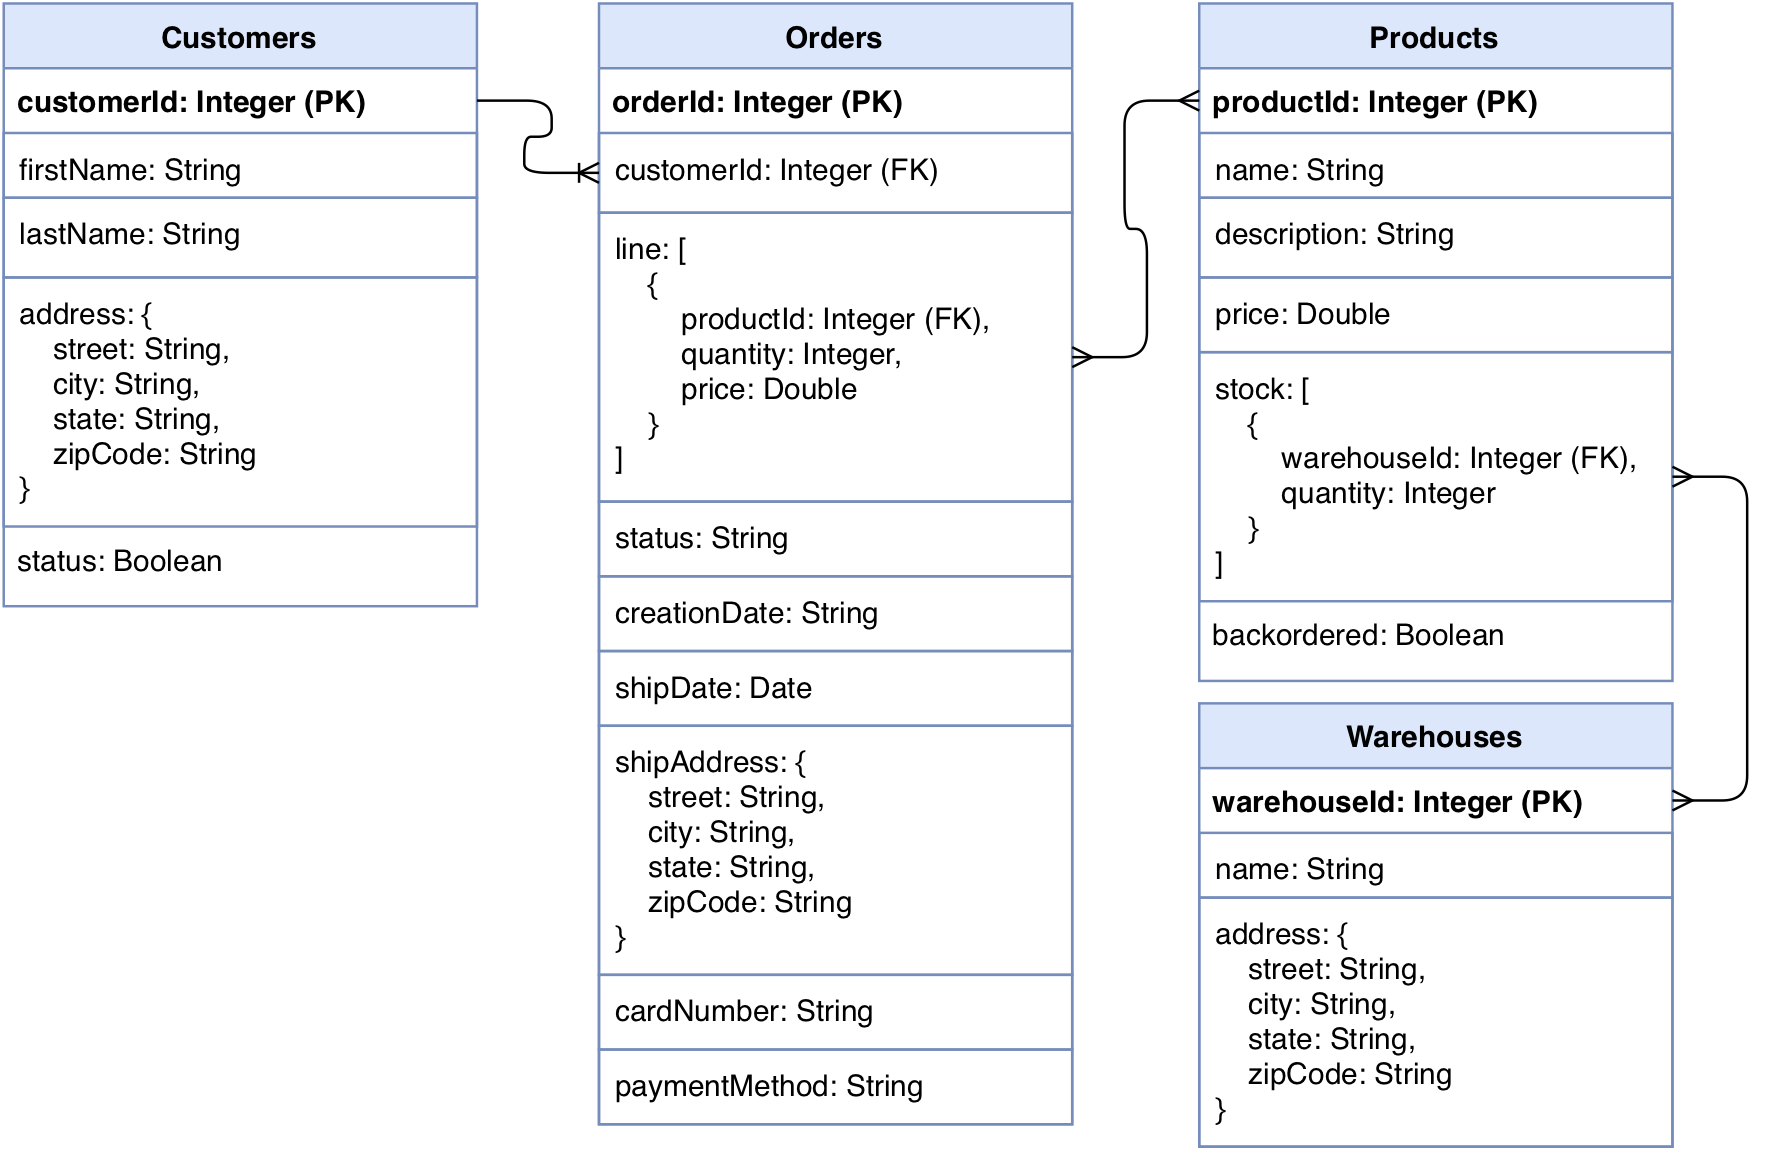
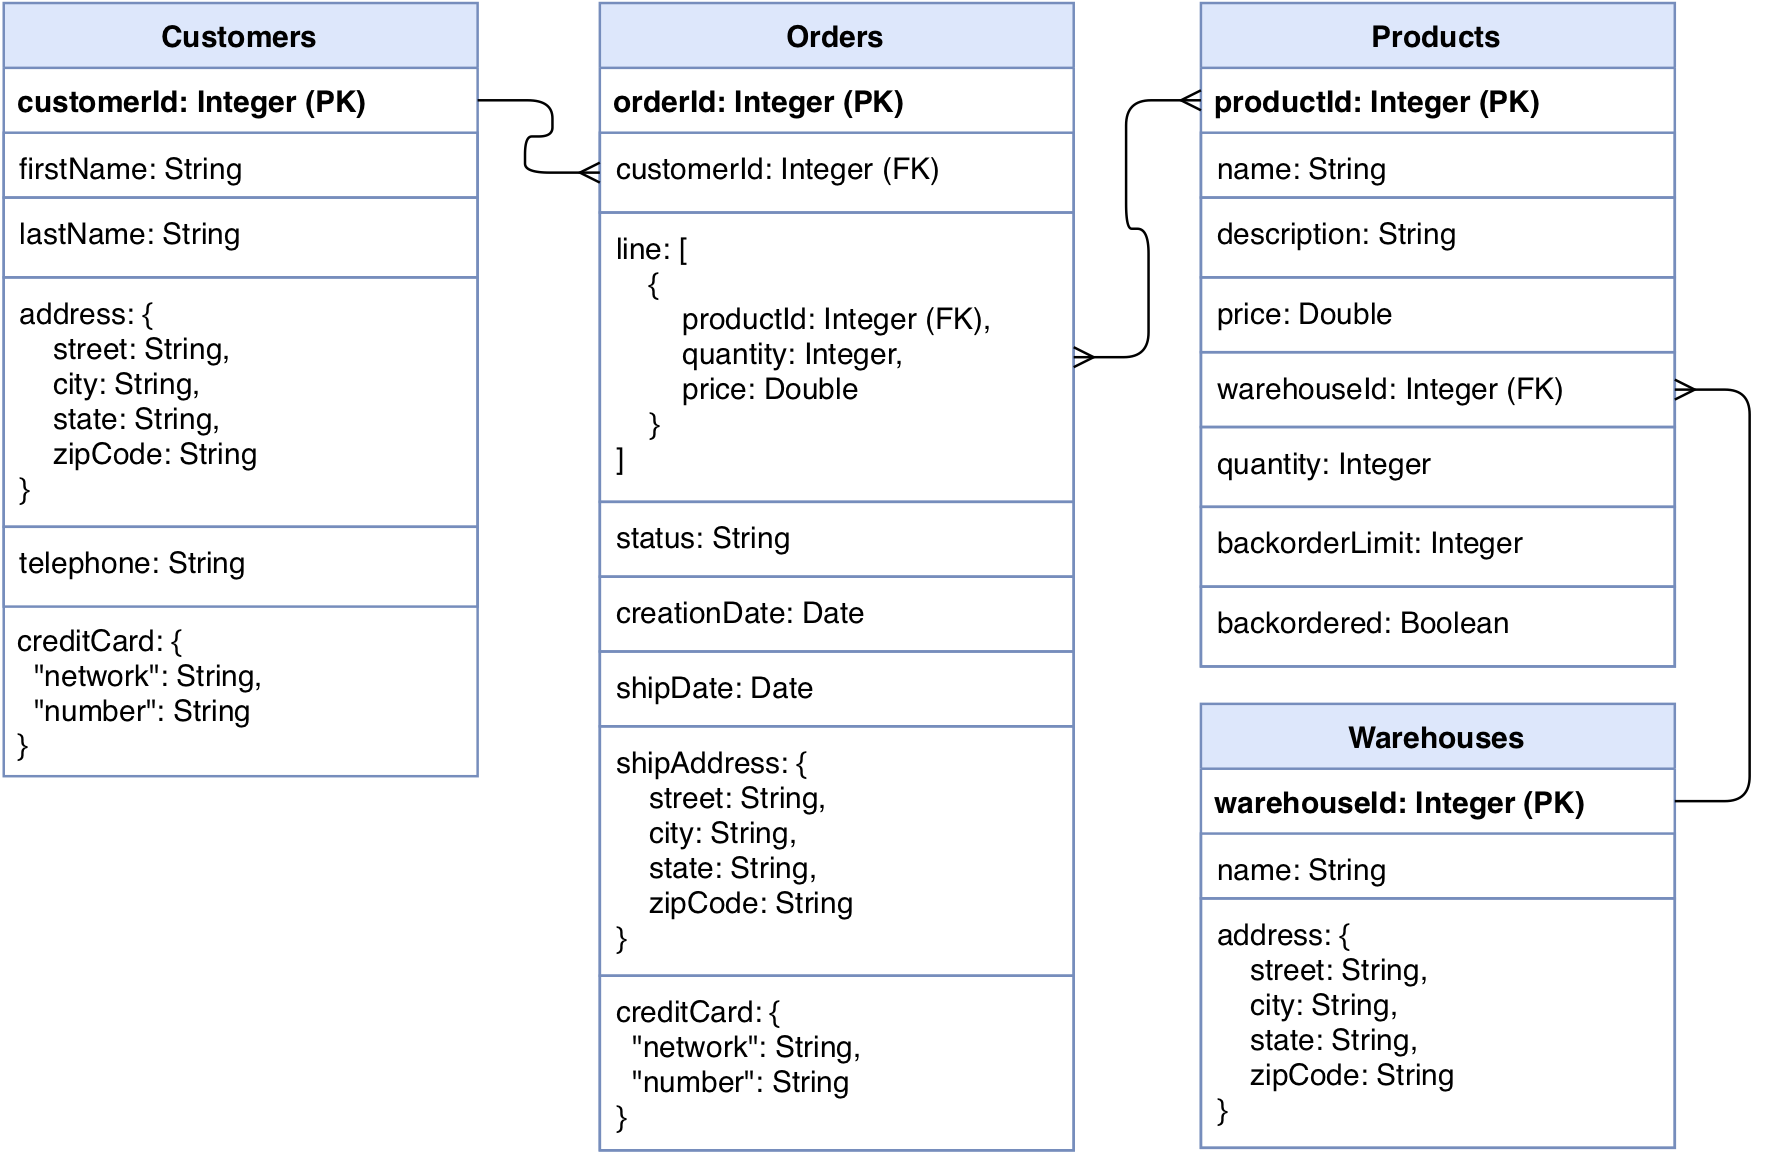
Addressing changes

diff --git a/README.md b/README.md
@@ -179,20 +179,9 @@ Create(
       "name": "Cup",
       "description": "Translucent 9 Oz",
       "price": "6.90",
-      "stock": [
-        {
-          "warhouseId": "East",
-          "quantity": 35
-        },
-        {
-          "warhouseId": "Central",
-          "quantity": 18
-        },
-        {
-          "warhouseId": "West",
-          "quantity": 20
-        }
-      ],
+      "quantity": 105,
+      "warehouseId": Ref(Class("warehouses"), "1549398205020000"),
+      "backorderLimit": 10,
       "backordered": false
     }
   }
@@ -252,16 +241,9 @@ Replace(
       "name": "Cup",
       "description": "Translucent 9 Oz",
       "price": "7.90",
-      "stock": [
-        {
-          "warhouseId": "East",
-          "quantity": 35
-        },
-        {
-          "warhouseId": "West",
-          "quantity": 20
-        }
-      ],
+      "quantity": 105,
+      "warehouseId": Ref(Class("warehouses"), "1549398205020000"),
+      "backorderLimit": 10,
       "backordered": false
     }
   }
@@ -295,7 +277,11 @@ Create(
         "state": "ID",
         "zipcode": "83405" 
       }, 
-      "telephone": "208-346-0715" 
+      "telephone": "208-346-0715",
+      "creditCard": {
+        "network": "Visa",
+        "number": "4916112310613672"
+      }
     }
   }
 );
@@ -352,7 +338,11 @@ Replace(
         "state": "ID",
         "zipcode": "83405"
       }, 
-      "telephone": "719-872-8799"
+      "telephone": "719-872-8799",
+      "creditCard": {
+        "network": "Visa",
+        "number": "4916112310613672"
+      }
     }
   }
 );
@@ -394,15 +384,16 @@ CreateFunction(
                     {
                       "ref": Select("ref", Var("product")),
                       "price": Select(["data", "price"], Var("product")),
-                      "currentQuantity": Add(SelectAll(["data", "stock", "quantity"], Var("product"))),
-                      "requestedQuantity": Select(["requestedQuantity"], Var("requestedProduct")) 
+                      "currentQuantity": Select(["data", "quantity"], Var("product")),
+                      "requestedQuantity": Select(["requestedQuantity"], Var("requestedProduct")),
+                      "backorderLimit": Select(["data", "backorderLimit"], Var("product"))
                     }
                   )
                 )
               )
           },
           Do(
-            // 2- Check if there's enough stock for the requested products
+            // 2- Check if there's enough stock
             Foreach(Var("products"),
               Lambda("product",
                 If(
@@ -413,8 +404,34 @@ CreateFunction(
               )
             ),
             // 3- Update products stock
-            // TODO: add query for updating products stock
-            // 4- Create Order
+            Foreach(Var("products"),
+              Lambda("product",
+                Update(
+                  Select("ref", Var("product")), {
+                    data: {
+                      "quantity": Subtract(Select("currentQuantity", Var("product")), Select("requestedQuantity", Var("product")))
+                    }
+                  }
+                )
+              )
+            ),
+            // 4- Update backordered status
+            Foreach(Var("products"),
+              Lambda("product",
+                If(
+                  LTE(Subtract(Select("currentQuantity", Var("product")), Select("requestedQuantity", Var("product"))), Select("backorderLimit", Var("product"))),
+                  Update(
+                    Select("ref", Var("product")), {
+                      data: {
+                        "backordered": true
+                      }
+                    }
+                  ),
+                  Var("product")
+                )
+              )
+            ),
+            // 5- Create Order
             Let(
               {
                 "orderProducts":
@@ -435,11 +452,10 @@ CreateFunction(
                     "customerId": Select("ref", Var("customer")),
                     "line": Var("orderProducts"),
                     "status": "processing",
-                    "creationDate": "???",
-                    "shipDate": "???",
-                    "shipAddress": Select("ref", Var("customer")),
-                    "cardNumber": "???",
-                    "paymentmethod": "???"
+                    "creationDate": ToDate(Time("now")),
+                    "shipDate": null,
+                    "shipAddress": Select(["data", "address"], Var("customer")),
+                    "creditCard": Select(["data", "creditCard"], Var("customer"))
                   }
                 }
               )
